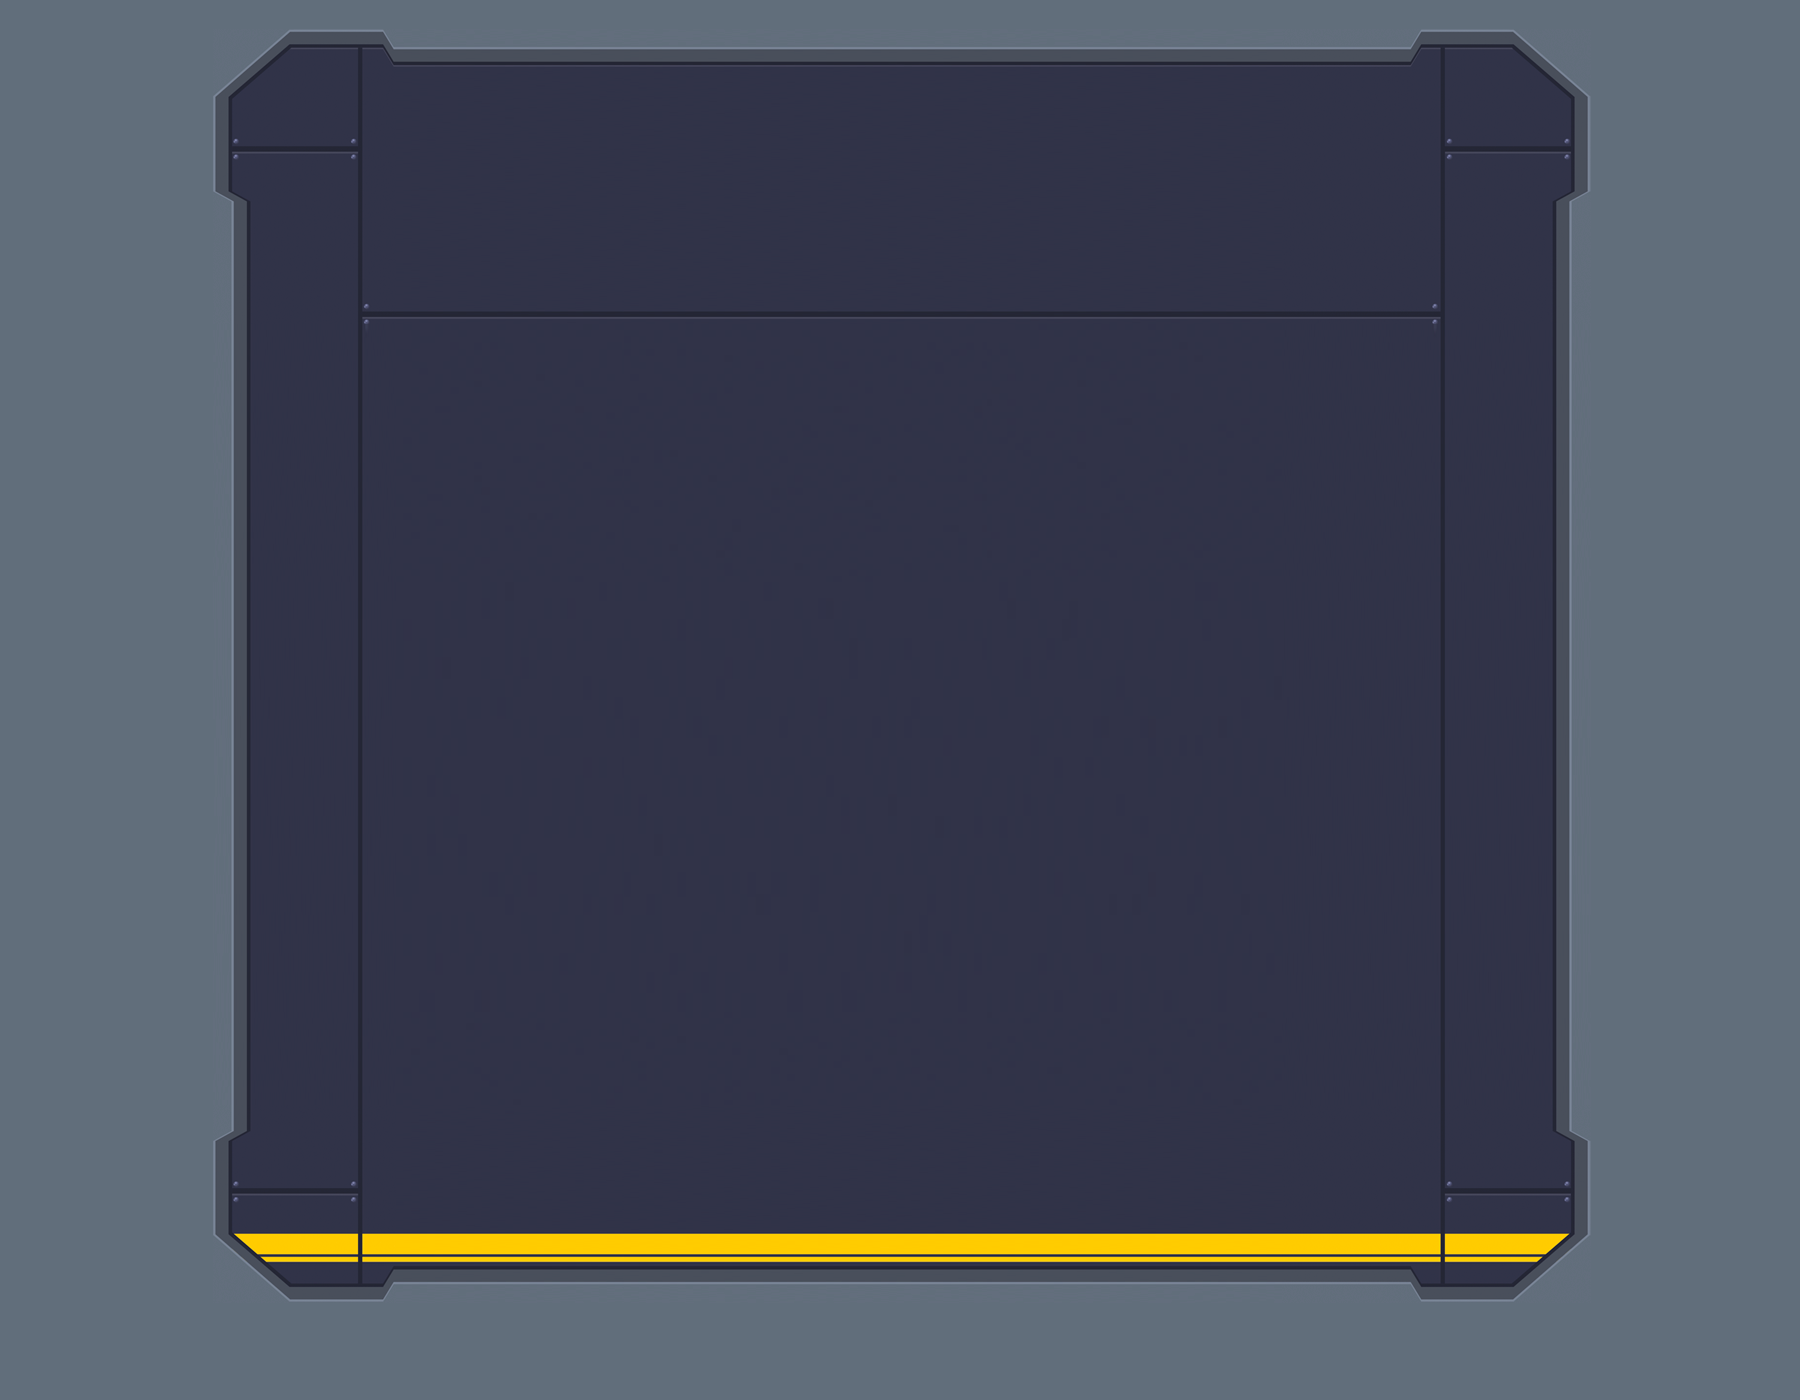
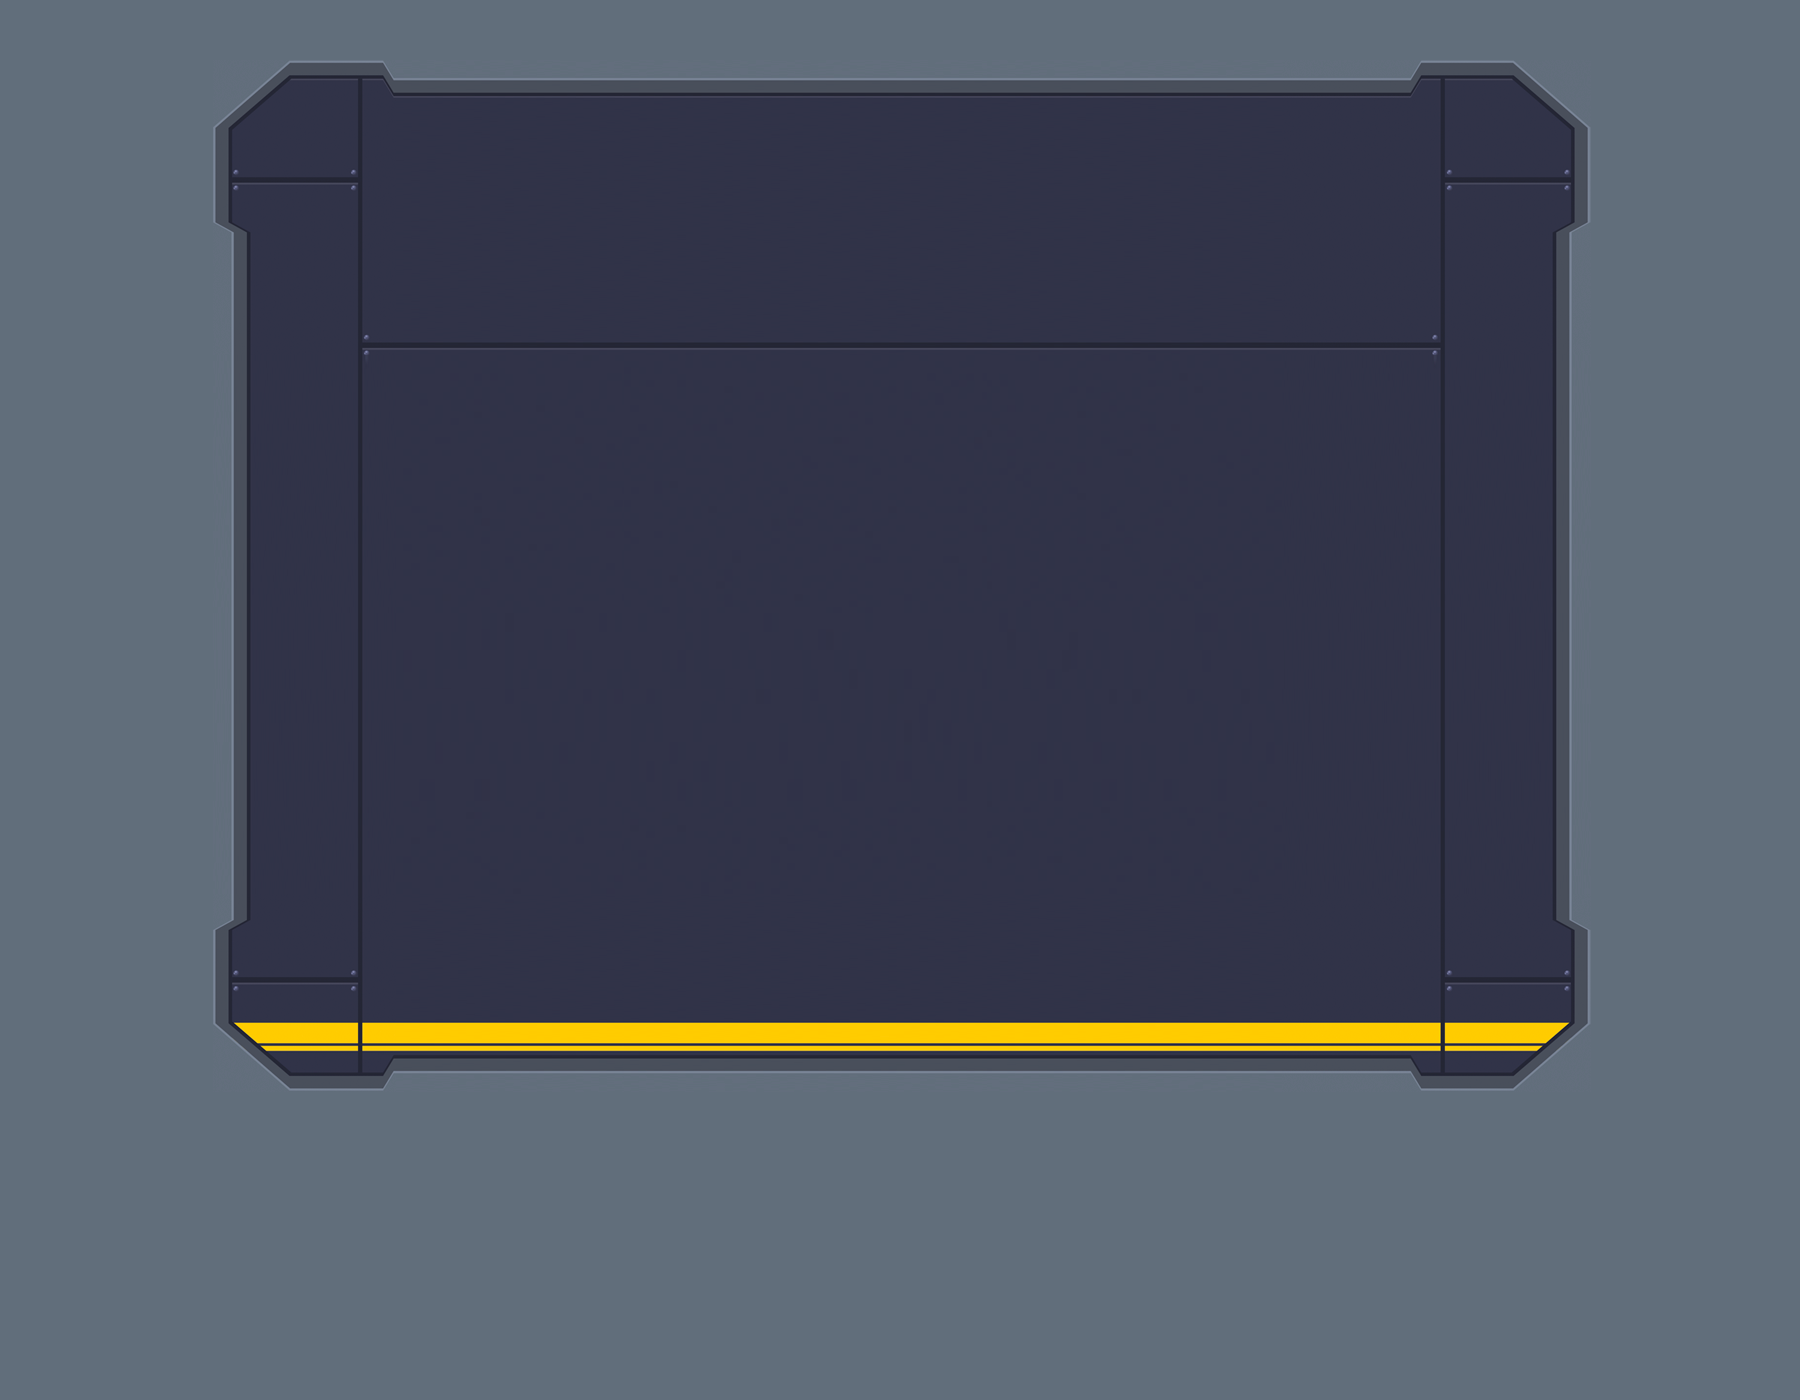
changeeees

diff --git a/src/css/Styles.css b/src/css/Styles.css
@@ -11,11 +11,11 @@
 @import url('https://fonts.googleapis.com/css2?family=Courier+Prime&display=swap');
 body {
     background-color: #626e7c;
-    background: url(../img/main-game-bg.png);
+    background: url(../img/main-game-bg-top-bar.png);
     background-repeat: no-repeat;
     background-position-x: center;
     background-color: #626d7a;
-    margin-top:7vh;
+    margin-top:0;
 }
 
 @media (max-width:1380px){
@@ -56,7 +56,7 @@ body.home {
 }
 
 p {
-    font-family: 'Courier Prime';
+    font-family: 'Courier Prime', Courier, monospace;
     color: #acacac;
 }
 
@@ -76,6 +76,7 @@ p {
     background-color: #4f4f4f;
     border: 2px solid #262626;
     color: #acacac;
+    font-family: 'Courier Prime', Courier, monospace;
 }
 
 .form-control:focus {
@@ -125,6 +126,7 @@ h1 {
 
 .container.container-body {
     max-width:1200px;
+    margin-top: 5%;
 }
 
 .container.deck-container {
@@ -217,11 +219,26 @@ h1 {
     background-size: cover;
 }
 
-.new-game {
-    margin-top: 20%;
-    width:25%;
-    cursor: pointer;
+
+.newgame-btn {
+    background-size: 100% 100%;
+    background-repeat: no-repeat; 
+    width:130px; /* 107 */
+    height:60px; /* 47*/
+    border:none;
+    background-color: #2f2f2f;
+    margin-bottom:10px;
+    margin-top: 22%;
 }
+
+.newgame-btn:active {
+    filter: grayscale(100%);
+}
+
+.newgame-btn {
+    background-image: url( '../img/btn/btn-new-game.png'); 
+}
+
 
 .rooms-container {
     border-radius:10px;
@@ -308,6 +325,44 @@ h1 {
         border:none;
         background-color: #2f2f2f;
         margin-bottom:15px;
+}
+
+.logoutBtn, .homeBtn, .roomsBtn {
+    background-size: 100% 100%;
+    background-repeat: no-repeat; 
+    width:45px; /* 107 */
+    height:45px; /* 47*/
+    border: 2px solid #242636;
+    background-color: #313348;
+    margin-bottom:15px;
+    margin-left:5px;
+}
+
+.logoutBtn:active, .homeBtn:active, .roomsBtn:active,.submitLoginBtn:active, .submitPlayBtn:active, .submitSignupBtn:active {
+    filter: grayscale(100%);
+}
+
+.logoutBtn {
+    background-image: url( '../img/btn/btn-logout.png'); 
+}
+
+.homeBtn {
+    background-image: url( '../img/btn/btn-home.png');  
+}
+
+.roomsBtn {
+    background-image: url( '../img/btn/btn-rooms.png');   
+}
+
+.navbar-container {
+    background-image: url( '../img/navbar-bg-pattern.png');
+    background-repeat:repeat-x;
+    background-position-y: bottom;
+}
+
+.navbar-row {
+    width:768px;
+    padding:6px 25px 10px 25px;
 }
 
 @media (max-width:700px) {

diff --git a/src/components/Navbar.js b/src/components/Navbar.js
@@ -10,31 +10,47 @@ class Navbar extends Component {
       
     }
     return (
-      <nav className='navbar'>
-        <Link to={"/"} id='home-btn'>
-          <h4>Home</h4>
-        </Link>
-        <Link to={'/Lobby'} id='lobby-btn'>
-          <h4>Lobby</h4>
-        </Link>
-        {isLoggedin ? (
-          <>
-            <p className='navbar-user'>username: {user.username}</p>
-            <Link to={"/"} id='home-btn'>
-              <button className='navbar-button' onClick={logout}>
-                Logout
-              </button>
-            </Link>
-          </>
-        ) : (
-          <>
-            <Link to='/signup'>
-              <button className='navbar-button'>Sign Up</button>
-            </Link>
-          </>
-        )}
-        <button>Rules</button>
-      </nav>
+        isLoggedin && ( 
+        <div className="container-fluid navbar-container d-flex justify-content-center">
+          <div className="row navbar-row d-flex justify-content-center">
+              <Link to={"/"} id='home-btn'>
+                <button className='homeBtn'></button>
+              </Link>
+              <Link to={'/Lobby'} id='lobby-btn'>
+                <button className='roomsBtn'></button>
+              </Link>
+              <Link to={"/"} id='home-btn'>
+                <button className='logoutBtn' onClick={logout}></button>
+              </Link>
+          </div>
+        </div>
+        /*} <nav className='navbar'>
+          <Link to={"/"} id='home-btn'>
+            <h4>Home</h4>
+          </Link>
+          <Link to={'/Lobby'} id='lobby-btn'>
+            <h4>Rooms</h4>
+          </Link>
+          {isLoggedin ? (
+            <>
+              <p className='navbar-user'>username: {user.username}</p>
+              <Link to={"/"} id='home-btn'>
+                <button className='navbar-button' onClick={logout}>
+                  Logout
+                </button>
+              </Link>
+            </>
+          ) : (
+            <>
+              <Link to='/signup'>
+                <button className='navbar-button'>Sign Up</button>
+              </Link>
+            </>
+          )}
+          <button>Rules</button>
+
+          </nav> */
+      )
     );
   }
 }

diff --git a/src/components/AllRooms.js b/src/components/AllRooms.js
@@ -37,16 +37,17 @@ export function AllRooms(props){
         return (
             <>
             {id.length>0 && <Redirect to={`/rooms/${id}`} />}
-            <div className="container login-container d-flex align-items-center" style={{marginTop:'5%'}}>
-            <div className="container">
+            <div className="container login-container d-flex align-items-center" style={{marginTop:'4%'}}>
+            <div className="container" style={{marginTop:'25px', marginBottom:'75px'}}>
                 <div className="row no-gutters rooms" style={{minHeight:'500px'}}>
                     <div className="container text-center">
-                        <img class ="new-game" src={newGameBtn} style={{maxWidth:'130px', maxHeight:'60px'}}onClick={createGame} alt="Create New Game"/>
+                        {/* <img class ="new-game" src={newGameBtn} style={{maxWidth:'120px'}}  alt="Create New Game"/> */}
+                        <button className="newgame-btn" onClick={createGame} ></button>
                         <div className="row d-flex rooms-container">
                         {roomArr.length && (
                             <div style={{width:'100%', overflow: 'auto', maxHeight:'260px'}}>
                                 {roomArr.map((room, index) =>{
-                                return (<p>{room.creator}'s game ({room.users.length} / 8) <span onClick={()=>joinGame(room.room, index)} key={room.room} className="a-login">Join Game</span> </p>)//aixo hauria de ser una funcio que miri si hi ha lloc i després el fiqui
+                                return (<p style={{marginBottom:'5px'}}>{room.creator}'s game ({room.users.length} / 8) <span onClick={()=>joinGame(room.room, index)} key={room.room} className="a-login">Join Game</span> </p>)//aixo hauria de ser una funcio que miri si hi ha lloc i després el fiqui
                                 })}
                             </div>)} 
                         </div>

diff --git a/src/components/Game.js b/src/components/Game.js
@@ -376,7 +376,7 @@ const Game = (props) => {
               </div>
               <div className="row d-flex justify-content-center text-center" style={{width:'90%', marginTop:'3%', marginBottom:'2%'}}>
               {
-                (ready) ? <img onClick={changeReady} className="robot-selection-btn" src={require("../img/btn/btn-ready-ready.png")} style={{maxWidth:'130px', maxHeight:'60px', border:'1px solid #ffd21f', display:'inline'}} alt="Ready" /> :
+                (ready) ? <img onClick={changeReady} className="robot-selection-btn" src={require("../img/btn/btn-ready-ready.png")} style={{maxWidth:'130px', maxHeight:'60px', border:'1px solid  #ffcc00', display:'inline'}} alt="Ready" /> :
                 <img onClick={changeReady} className="robot-selection-btn" src={require("../img/btn/btn-ready-notready.png")} style={{maxWidth:'130px', maxHeight:'60px', display:'inline'}} alt="Not Ready" />
               }
                 { room.users.every(user => user.ready === true) && creator && <img className="robot-selection-btn" onClick={startGame} src={require("../img/btn/btn-start-enabled.png")} style={{maxWidth:'130px', maxHeight:'60px', display:'inline', paddingLeft:'2%'}} alt="Start Game" />}

diff --git a/src/components/Home.js b/src/components/Home.js
@@ -25,7 +25,7 @@ function Home() {
 			<div className="container login-inner-container">
 				<div className="col-12 text-center login">
 					<p className="login-text">Assume control of a robot in a dangerous widget factory filled with moving, course-altering conveyor belts, metal-melting laser beams,  bottomless pits, crushers and a variety of other obstacles. Just try to survive and escape!</p>
-					<Link to={"/login"} className="a-login"><img class="login-btn d-block mx-auto" style={{marginBottom:'15px'}} src={loginBtn} alt="" /></Link>
+					<Link to={"/login"} className="a-login"><button className="submitLoginBtn"></button></Link>
 					<p className="" style={{marginBottom:"0"}}>Don't you have an account?</p>
 					<p><Link to={"/guest"} className="a-login">Play as Guest</Link> or <Link to={"/signup"} className="a-login">Register</Link></p>
 					<br/><br/><br/>

diff --git a/public/index.html b/public/index.html
@@ -26,7 +26,7 @@
       work correctly both with client-side routing and a non-root public URL.
       Learn how to configure a non-root public URL by running `npm run build`.
     -->
-    <title>React App</title>
+    <title>RoboRace Game</title>
   </head>
   <body>
     <noscript>

diff --git a/src/App.css b/src/App.css
@@ -4,13 +4,15 @@
 }
 
 .App {
-  padding: 20px;;
+  padding: 20px;
 }
 
 nav.navbar { 
   display: flex;
-  padding: 20px;
-  background: #686de0; 
+  justify-content: center;
+  margin-bottom:35px;
+  border-bottom: 1px solid #f00;
+  padding:0;
 }
 
 nav.navbar .navbar-user{
